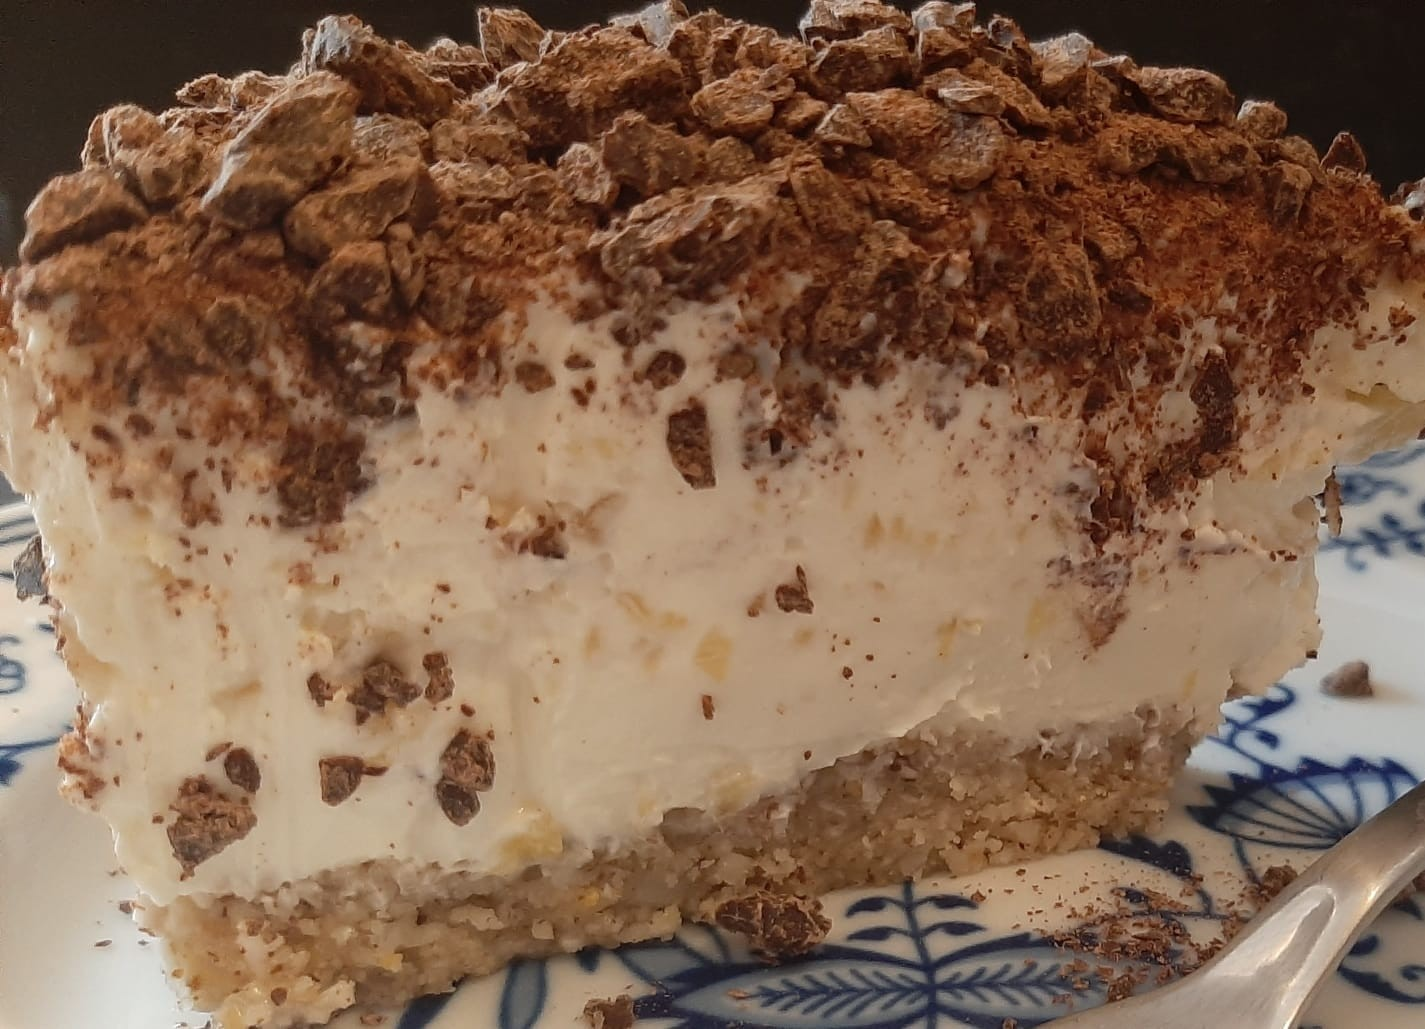
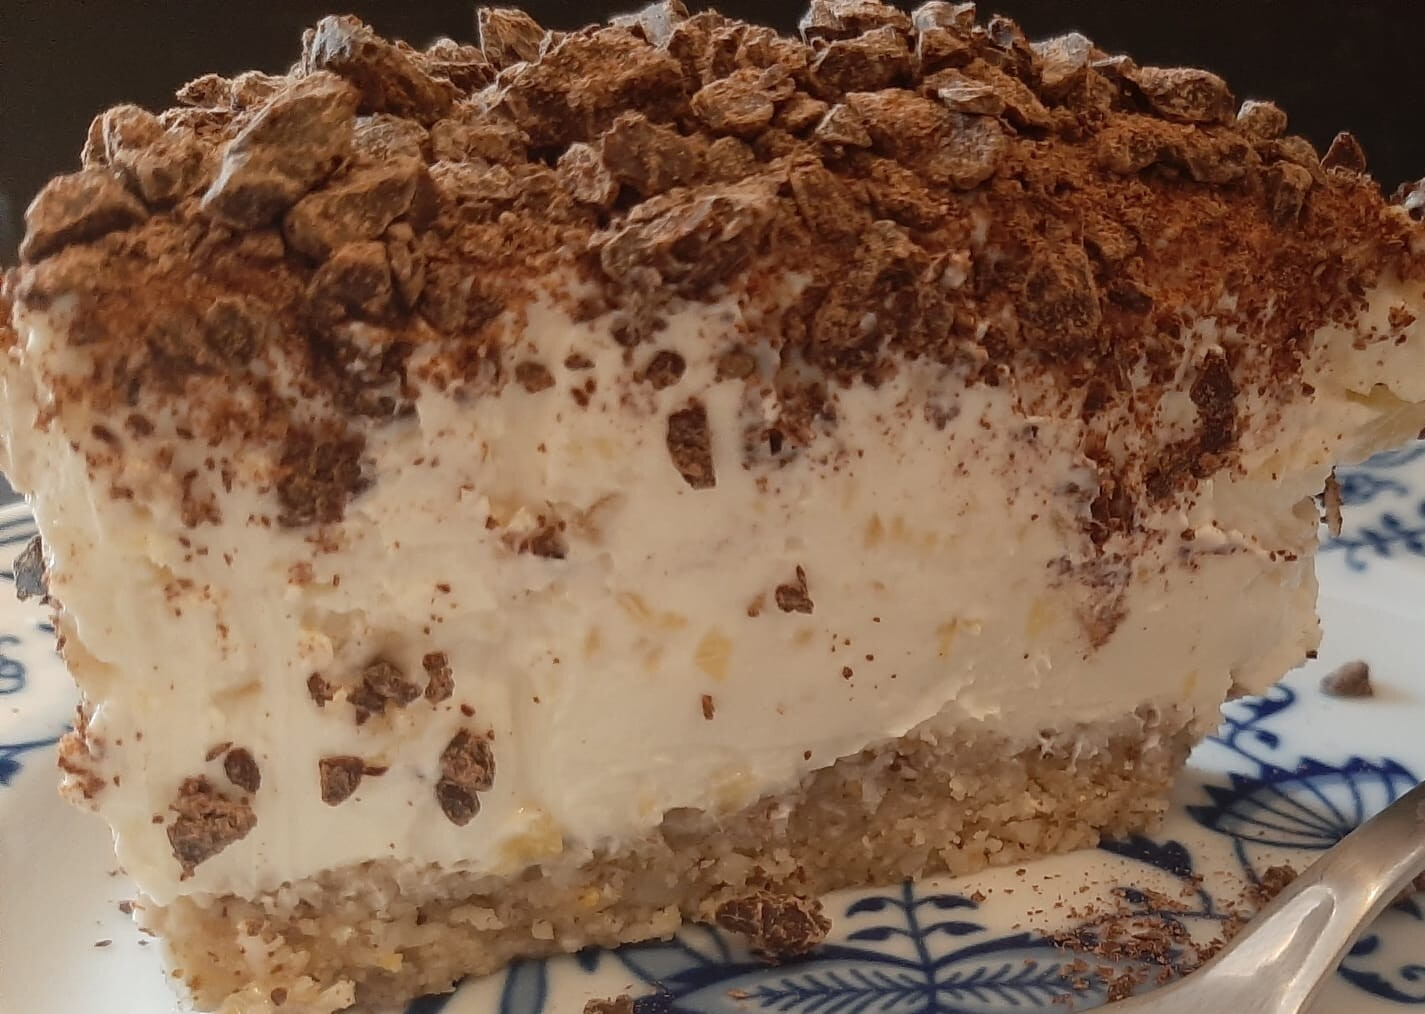
Revert to object-contain and crop Cremige-Ananas-Choco-Torte.jpg to remove white border

diff --git a/src/index.md b/src/index.md
@@ -172,27 +172,27 @@ title: 24ja.at | Kinderbetreuung, Personenbetreuung & Begleitung in Wien
                 <div id="slideshow-personenbetreuung" class="css-slideshow-fade relative w-full aspect-[4/3] rounded-lg overflow-hidden shadow-xl bg-white">
                     <!-- Image 1 - New image -->
                     <div class="slide">
-                        {% picture site.imagePrefix + '/assets/images/original/erwachsenenbetreuung/Cremige-Ananas-Choco-Torte.jpg', "Cremige Ananas-Schokoladen-Torte", "100vw", "w-full h-full object-cover" %}
+                        {% picture site.imagePrefix + '/assets/images/original/erwachsenenbetreuung/Cremige-Ananas-Choco-Torte.jpg', "Cremige Ananas-Schokoladen-Torte", "100vw", "w-full h-full object-contain" %}
                         <div class="slide-caption">Cremige Ananas-Schokoladen-Torte</div>
                     </div>
                     <!-- Image 2 (originally Image 1) -->
                     <div class="slide">
-                        {% picture site.imagePrefix + '/assets/images/original/erwachsenenbetreuung/Erfrischende Cocktails aus Banane und Ananas.jpg', "Erfrischender Ananas-Banana Cocktail", "100vw", "w-full h-full object-cover" %}
+                        {% picture site.imagePrefix + '/assets/images/original/erwachsenenbetreuung/Erfrischende Cocktails aus Banane und Ananas.jpg', "Erfrischender Ananas-Banana Cocktail", "100vw", "w-full h-full object-contain" %}
                         <div class="slide-caption">Erfrischender Ananas-Banana Cocktail</div>
                     </div>
                     <!-- Image 3 (originally Image 2) -->
                     <div class="slide">
-                        {% picture site.imagePrefix + '/assets/images/original/erwachsenenbetreuung/lammrippen-knoblauch-oregano.jpg', "Delikate Lammrippen mit Knoblauch und Oregano", "100vw", "w-full h-full object-cover" %}
+                        {% picture site.imagePrefix + '/assets/images/original/erwachsenenbetreuung/lammrippen-knoblauch-oregano.jpg', "Delikate Lammrippen mit Knoblauch und Oregano", "100vw", "w-full h-full object-contain" %}
                         <div class="slide-caption">Delikate Lammrippen mit Knoblauch und Oregano</div>
                     </div>
                     <!-- Image 4 (originally Image 3) -->
                     <div class="slide">
-                        {% picture site.imagePrefix + '/assets/images/original/erwachsenenbetreuung/kaesecracker-demeter.jpg', "Käsecracker Demeter", "100vw", "w-full h-full object-cover" %}
+                        {% picture site.imagePrefix + '/assets/images/original/erwachsenenbetreuung/kaesecracker-demeter.jpg', "Käsecracker Demeter", "100vw", "w-full h-full object-contain" %}
                         <div class="slide-caption">Käsecracker Demeter</div>
                     </div>
                     <!-- Image 5 (originally Image 4) -->
                     <div class="slide">
-                        {% picture site.imagePrefix + '/assets/images/original/erwachsenenbetreuung/Verführerische Lammrippen in einer pikanten Honigmarinade.jpg', "Marinierte pikante Lammrippchen mit Honig", "100vw", "w-full h-full object-cover" %}
+                        {% picture site.imagePrefix + '/assets/images/original/erwachsenenbetreuung/Verführerische Lammrippen in einer pikanten Honigmarinade.jpg', "Marinierte pikante Lammrippchen mit Honig", "100vw", "w-full h-full object-contain" %}
                         <div class="slide-caption">Marinierte pikante Lammrippchen mit Honig</div>
                     </div>
                 </div>
